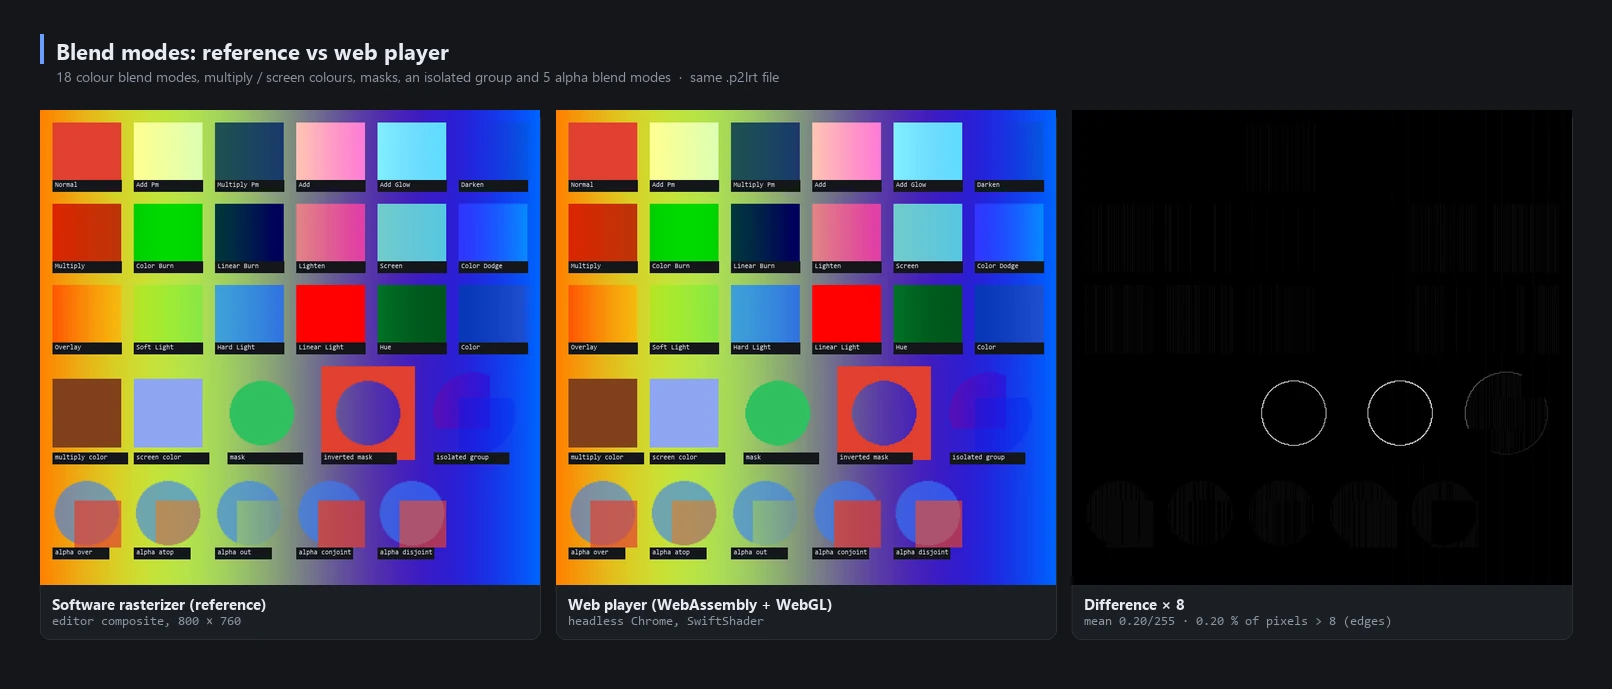
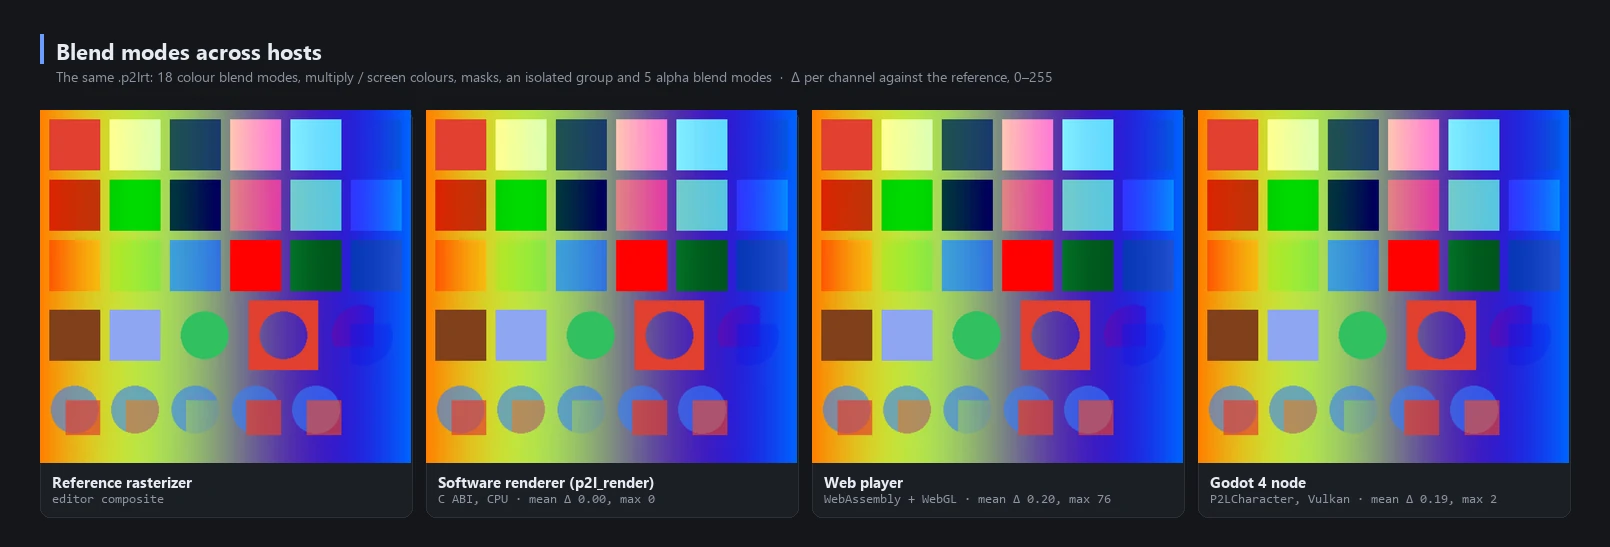
docs(readme): the p2lrt runtime as it stands - software renderer, host integration (shared models, staged updates, overrides, change flags, log, host allocator), motion layers, events and several expressions, and the bindings beyond the JVM (C / C++, .NET and a Unity example, Android) - the blend mo

diff --git a/docs/en/README.md b/docs/en/README.md
@@ -35,7 +35,7 @@ PSD2Live is a complete 2D character rigging toolchain: it generates meshes, defo
 | **Experienced and tired of repetitive work** | Meshes, deformer chains, facial parameters and physics in one click, then refine on the canvas; hand edits are stored as replayable records and survive regeneration |
 | **Looking for an open-source alternative** | Editor, engine and project format are all open source; edit, preview and export `.moc3` / `.cmo3` without the official SDK |
 | **Held back by what Cubism offers** | Skeletons and IK, 2D cloth and hair simulation and automatic armatures, tools Cubism does not have, baked into native structures on export |
-| **Putting characters into your own program** | The open-source Rust runtime p2lrt with a C interface, a web player and a Godot node; also video, frame sequences, and Spine and glTF (experimental) |
+| **Putting characters into your own program** | The open-source Rust runtime p2lrt plugs into C / C++, .NET, Android, the web and Godot, with its own software renderer; also video, frame sequences, and Spine and glTF (experimental) |
 
 ## Core capabilities
 
@@ -47,7 +47,7 @@ PSD2Live is a complete 2D character rigging toolchain: it generates meshes, defo
 | **Animation and physics** | Timeline, keyframes and curves; visual pendulum editing evaluated to match the Cubism Native Framework |
 | **Textures** | Atlas layout, per-layer texture density, optional 2× / 4× upscaling |
 | **Compile and export** | Every target compiles from one neutral rig IR, each export with a loss report |
-| **p2lrt runtime** | Open-source Rust runtime: C interface, WebAssembly web player, Godot 4 node; matches the editor's evaluation pose for pose |
+| **p2lrt runtime** | Open-source Rust runtime: C ABI, software renderer, WebAssembly web player, Godot 4 node, .NET and Android builds; matches the editor's evaluation pose for pose |
 | **Agents** | Local MCP server with more than 180 public operations, sharing commands and history with the editor; atomic batches and dry runs |
 
 ## Results
@@ -114,7 +114,7 @@ The Rust runtime replays the editor's reference poses and trajectories; geometry
 
 ![Runtime against the editor evaluator: maximum vertex error of 84 rigs on a log scale, all under the 0.02 px limit or within their own sensitivity; physics 16/16 and simulation 12/12 pass](../imgs/readme/runtime-conformance.webp)
 
-![Blend mode conformance: 18 color blend modes, multiply / screen colors, masks and inverted masks, an isolated group and 5 alpha blend modes, software rasterizer reference against the web player and their difference](../imgs/readme/runtime-blend.webp)
+![Blend modes across hosts: 18 color blend modes, multiply / screen colors, masks and inverted masks, an isolated group and 5 alpha blend modes, rendered by the reference rasterizer, the software renderer, the web player and the Godot node, with each difference from the reference](../imgs/readme/runtime-blend.webp)
 
 ## Relationship to Cubism
 
@@ -175,7 +175,7 @@ The full naming table is in [PSD preparation](spec/PSD_LAYER_SPEC.md). Unrecogni
 | **Cubism Editor** | A `.cmo3` model project to check and refine in the official editor |
 | **Cubism runtime** | `.model3.json` + `.moc3` with textures, physics, motions and more; load from `.model3.json` |
 | **VTube Studio** | The `.moc3` bundle plus `.vtube.json`, face tracking mapped to standard parameters and a hotkey per motion |
-| **Your program / the web / Godot** | A `.p2lrt` rig, or a WebGL player page that opens in a browser |
+| **Your program / engine / the web** | A `.p2lrt` rig for C / C++, .NET, Unity, Godot and Android, or a WebGL player page that opens in a browser |
 | **Images and video** | PNG sequences, sprite sheets, GIF; APNG, animated WebP, MP4, WebM, ProRes 4444 (through ffmpeg) |
 | **PSD** | A layered PSD at the current pose, or the source PSD with generated layers |
 | **Experimental** | Spine 4.2, DragonBones 5.5, glTF 2.0, from the command line only |
@@ -194,11 +194,13 @@ The built-in renderer needs no official SDK. [Cubism native preview](guide/CUBIS
 | Item | Description |
 | --- | --- |
 | **Core evaluation** | Cubism-equivalent Warp / Rotation deformation, blend shapes, Glue, parts and draw order, opacity and color channels; matches the editor's evaluation pose for pose |
-| **Physics and motions** | Pendulum physics with physics3.json semantics; layered motions with priorities and events, fades as in Cubism; several expressions at once |
-| **Procedural behavior** | Blinking, breathing, gaze and lip sync, with host parameters (such as face tracking) layered over motions |
+| **Physics and motions** | Pendulum physics with physics3.json semantics, wind and stabilization; up to 16 motion layers by priority, with events and part / rig opacity curves, fades as in Cubism; several expressions at once |
+| **Procedural behavior** | Blinking, breathing, gaze and lip sync (audio-driven if wanted); a host layer adds outside parameters (such as face tracking) over motions |
 | **Advanced extensions** | Optional: runtime joint skinning, exact links, live XPBD cloth and hair with collision; when off, results are bit-identical to core evaluation |
+| **Rendering** | Draw by the header's drawing rules, or let the built-in software renderer `p2l_render` draw into an RGBA image: every color and alpha blend mode, masks, isolated groups and culling, as the editor's reference rasterizer; per-mesh change flags let the host upload only what changed |
+| **Host integration** | One read-only model shared by many instances; staged updates, part opacity and color overrides, hit areas, a log and a host allocator; an internal error fails that handle without aborting the host |
 | **File format** | `.p2lrt` 2.0: a chunked container whose core chunks map one to one to moc3, with optional extension chunks; deflate / zstd compression, byte-identical output from the same IR |
-| **Integration** | C interface ([`p2l_runtime.h`](../../runtime/include/p2l_runtime.h)), WebAssembly web player, Godot 4 node `P2LCharacter` ([`runtime/godot/`](../../runtime/godot/)) |
+| **Integration** | C / C++ header [`p2l_runtime.h`](../../runtime/include/p2l_runtime.h) with a dynamic or static library (usable from Unreal), .NET P/Invoke bindings and a Unity component example, Android (arm64-v8a, armeabi-v7a, x86_64), WebAssembly web player, Godot 4 node `P2LCharacter` ([`runtime/godot/`](../../runtime/godot/)); see [other languages and platforms](../../runtime/bindings/README.md) |
 
 <table>
 <tr>
